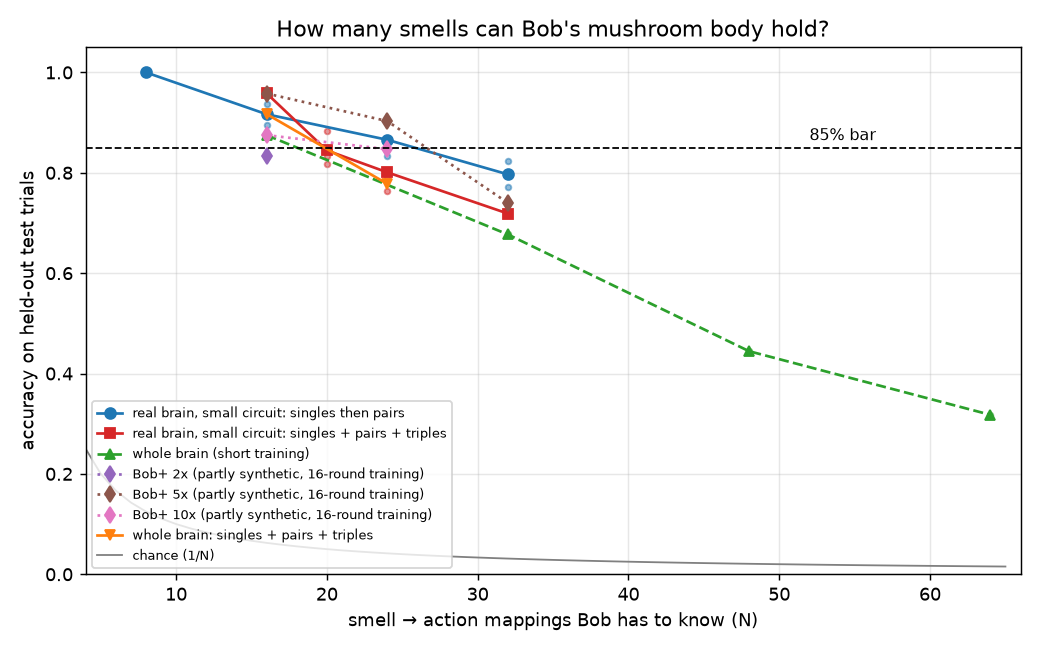
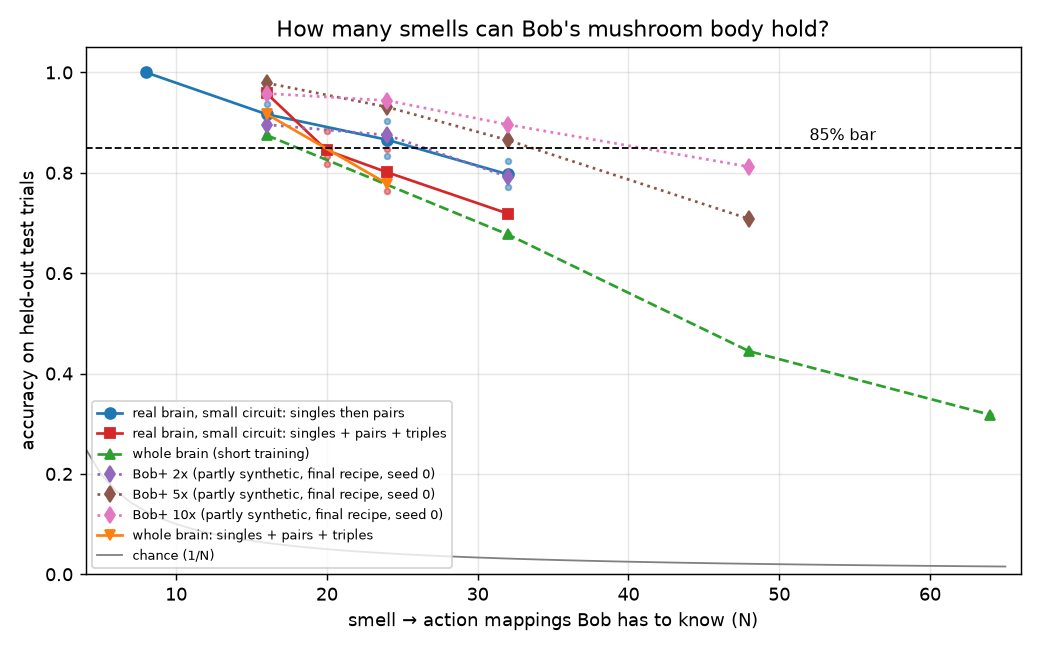
Bob+ results with the final training recipe; capacity plot update

diff --git a/bobbrain.py b/bobbrain.py
@@ -94,7 +94,7 @@ def make_groups(n_mbon, N, kcin, mode='groups', code_size=8, seed=0):
 def make_plus(ip, ix, dd, n, kc, pns, factor, seed, kc_w_scale=True):
     """Bob+: add (factor-1)*len(kc) SYNTHETIC Kenyon cells to a (sub) circuit given as CSR.
     Each synthetic KC copies a random real KC ('template'): it gets the template's number and strengths of
-    PN inputs but from RANDOMLY chosen projection neurons (fly-like random PN->KC sampling, ~6-7 PNs per KC),
+    PN inputs but from RANDOMLY chosen projection neurons (fly-like random PN->KC sampling),
     the template's other inputs (APL, DPM, DANs, other KCs) and the template's outputs. All KC outputs are
     scaled by 1/factor so total KC drive onto APL/MBONs stays at the real brain's level.
     Returns new CSR, new n, synthetic indices, template index per synthetic KC."""

diff --git a/README.md b/README.md
@@ -76,23 +76,23 @@ telling "A" from "A+B" apart.
 
 The real fly has about 5,200 Kenyon cells. **Bob+** adds made-up (synthetic) Kenyon cells: 2x, 5x and 10x as many.
 Each synthetic cell copies a random real Kenyon cell's outputs and other inputs, but gets its smell inputs from
-randomly chosen projection neurons (fly-like random wiring, ~6-7 inputs each). All Kenyon-cell outputs are scaled
+randomly chosen projection neurons, as many as the real cell it copies (fly-like random wiring). All Kenyon-cell outputs are scaled
 down by the same factor so the total drive onto the output neurons stays the same. **Bob+ is partly synthetic, not
 a real fly.**
 
-Measured on Kaggle CPU with the earlier 16-round training (no mixture gain control), smells added singles first,
-then pairs, one random seed:
+Final recipe, Kaggle CPU, one random seed (seed 0), smells added singles first then pairs (then triples at 48):
 
-| brain | Kenyon cells | neurons | 16 mappings | 24 | 32 | holds (≥85%) | time per smell, laptop | peak RAM, laptop |
-|---|---|---|---|---|---|---|---|---|
-| real (small circuit) | 5,177 | 6,293 | 73% | | | 8 | 0.43 s | 504 MB |
-| Bob+ 2x | 10,354 | 11,470 | 83% | | | 8* | 0.62 s | 504 MB |
-| Bob+ 5x | 25,885 | 27,001 | 96% | 90% | 74% | 24 | 1.1 s | 551 MB |
-| Bob+ 10x | 51,770 | 52,886 | 88% | 85% (84.7) | | 16 | 1.9 s | 819 MB |
+| brain | Kenyon cells | neurons | 16 | 24 | 32 | 48 | holds (≥85%) | crosses 85% | time per smell, laptop | peak RAM, laptop |
+|---|---|---|---|---|---|---|---|---|---|---|
+| real (small circuit) | 5,177 | 6,293 | 92% | 90% | 77% | | 24 | between 24 and 32 | 0.43 s | 504 MB |
+| Bob+ 2x | 10,354 | 11,470 | 90% | 88% | 79% | | 24 | between 24 and 32 | 0.62 s | 504 MB |
+| Bob+ 5x | 25,885 | 27,001 | 98% | 93% | 87% | 71% | 32 | between 32 and 48 | 1.1 s | 551 MB |
+| Bob+ 10x | 51,770 | 52,886 | 96% | 94% | 90% | 81% | 32 | between 32 and 48 | 1.9 s | 819 MB |
 
-\* not run at 8; 8 single smells were 100% on the real brain. More Kenyon cells help a little (5x did best), but
-10x the cells does not mean 10x the memories: the 96 output neurons and the "A is inside A+B" overlap stay the
-limits. A re-run of Bob+ with the final recipe was still running when this was written.
+More Kenyon cells make Bob more accurate at every size and push the break point from about 24 to about 32-48
+mappings, but 10x the cells is nowhere near 10x the memories. The 96 output neurons and the "A is inside A+B"
+overlap stay the limits; at 32 mappings even Bob+ 10x gets only 67% of the single smells right. (Peak RAM is mostly
+loading the connectome file; Kaggle RAM per run: 487 / 534 / 802 MB for 2x / 5x / 10x.)
 
 ## Run it
 
